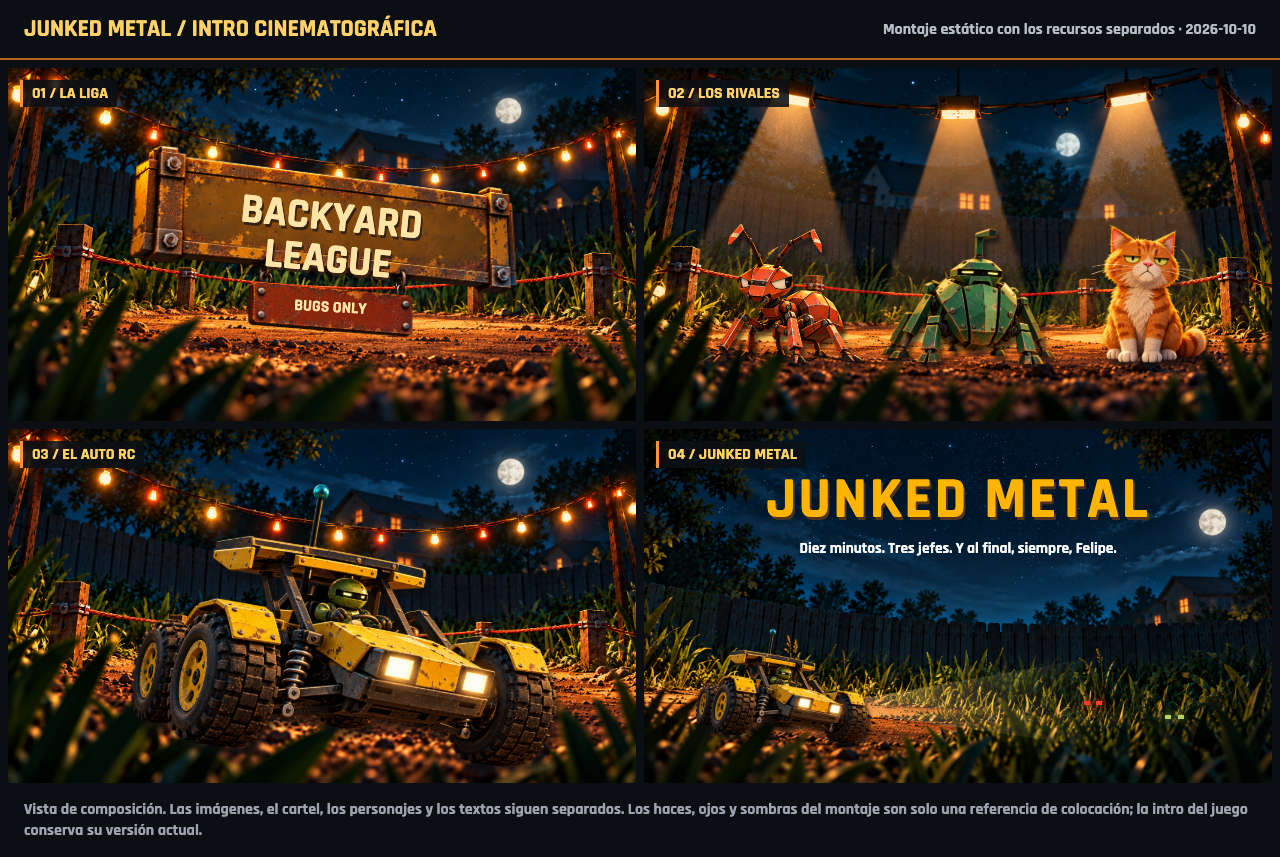
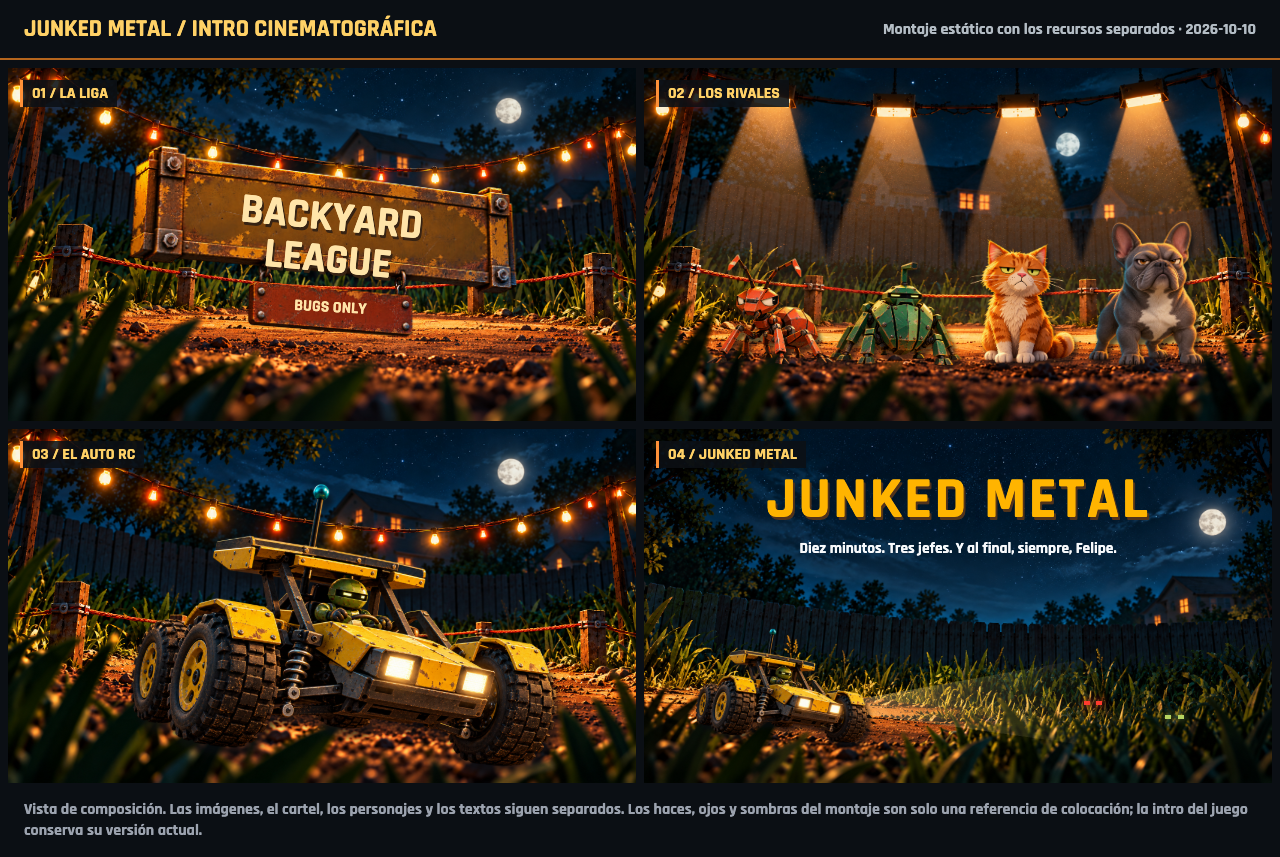
art(intro): incluir frenchie gris junto a Eulalio

Changed region(s): [[0.5312, 0.091, 0.9688, 0.4551]]

diff --git a/assets-src/intro/cinematic-v1/index.html b/assets-src/intro/cinematic-v1/index.html
@@ -5,7 +5,7 @@
 <title>Junked Metal — Recursos cinematográficos de la intro</title>
 <style>
 @font-face{font-family:Rajdhani;src:url('../../../node_modules/@fontsource/rajdhani/files/rajdhani-latin-700-normal.woff2');font-weight:700}
-*{box-sizing:border-box}body{margin:0;background:#0b0f14;color:#ffd166;font-family:Rajdhani,sans-serif}header{padding:14px 24px;display:flex;justify-content:space-between;gap:12px;align-items:center;border-bottom:2px solid #b5651d}h1{margin:0;font-size:24px}header p{margin:0;color:#b4bdc5;font-size:16px}main{display:grid;grid-template-columns:1fr 1fr;gap:8px;padding:8px}.scene{position:relative;aspect-ratio:1672/941;overflow:hidden;background:#0b0f14}.bg{width:100%;height:100%;display:block}.layer{position:absolute;height:auto;pointer-events:none}.label{position:absolute;left:12px;top:12px;padding:3px 9px;border-left:3px solid #ff9138;background:#0b0f14df;color:#ffd166;font-size:16px;z-index:5}.sign{left:18%;top:16%;width:64%}.sign img{width:100%;display:block}.sign strong{position:absolute;left:14%;top:32%;width:76%;text-align:center;transform:rotate(5.5deg);font-size:clamp(14px,3.25vw,56px);line-height:1;color:#ffe4a8;text-shadow:2px 3px #372313}.sign small{position:absolute;left:35%;top:76%;width:34%;text-align:center;transform:rotate(3deg);font-size:clamp(9px,1.25vw,22px);color:#ffe4a8}.rival{bottom:15%;filter:drop-shadow(3px 5px 2px #090c10ad)}.ant{left:8%;width:28%}.beetle{left:37%;width:29%}.cat{left:70%;width:20%}.car{left:19%;bottom:4%;width:69%;filter:drop-shadow(4px 9px 3px #090c10ad)}.small-car{left:8%;bottom:11%;width:28%;filter:drop-shadow(3px 5px 2px #090c10ad)}.title{position:absolute;top:12%;left:8%;right:8%;margin:0;text-align:center;color:#ffb400;font-size:clamp(28px,4.5vw,84px);line-height:1;font-weight:700;letter-spacing:.045em;text-shadow:2px 3px #51331b}.tag{position:absolute;left:10%;right:10%;top:31%;margin:0;text-align:center;color:#f8fafc;font-size:clamp(9px,1.2vw,22px)}.beam{position:absolute;left:27%;top:64%;width:46%;height:26%;clip-path:polygon(0 56%,100% 0,100% 100%);background:linear-gradient(90deg,#ffe7a860,#ffe7a800)}.eyes{position:absolute;width:3%;height:1.1%;background:linear-gradient(90deg,#ff3b2e 0 32%,transparent 32% 68%,#ff3b2e 68%);bottom:22%;left:70%;filter:drop-shadow(0 0 4px #ff3b2e)}.eyes.second{bottom:18%;left:83%;background:linear-gradient(90deg,#b6d360 0 32%,transparent 32% 68%,#b6d360 68%);filter:drop-shadow(0 0 4px #b6d360)}footer{padding:8px 24px 16px;color:#9ca3af;font-size:16px}@media(max-width:700px){main{grid-template-columns:1fr}header{align-items:flex-start;flex-direction:column}h1{font-size:22px}.sign strong{font-size:7vw}.sign small{font-size:3vw}.title{font-size:10vw}.tag{font-size:2.7vw}.label{font-size:12px}}
+*{box-sizing:border-box}body{margin:0;background:#0b0f14;color:#ffd166;font-family:Rajdhani,sans-serif}header{padding:14px 24px;display:flex;justify-content:space-between;gap:12px;align-items:center;border-bottom:2px solid #b5651d}h1{margin:0;font-size:24px}header p{margin:0;color:#b4bdc5;font-size:16px}main{display:grid;grid-template-columns:1fr 1fr;gap:8px;padding:8px}.scene{position:relative;aspect-ratio:1672/941;overflow:hidden;background:#0b0f14}.bg{width:100%;height:100%;display:block}.layer{position:absolute;height:auto;pointer-events:none}.label{position:absolute;left:12px;top:12px;padding:3px 9px;border-left:3px solid #ff9138;background:#0b0f14df;color:#ffd166;font-size:16px;z-index:5}.sign{left:18%;top:16%;width:64%}.sign img{width:100%;display:block}.sign strong{position:absolute;left:14%;top:32%;width:76%;text-align:center;transform:rotate(5.5deg);font-size:clamp(14px,3.25vw,56px);line-height:1;color:#ffe4a8;text-shadow:2px 3px #372313}.sign small{position:absolute;left:35%;top:76%;width:34%;text-align:center;transform:rotate(3deg);font-size:clamp(9px,1.25vw,22px);color:#ffe4a8}.rival{bottom:15%;filter:drop-shadow(3px 5px 2px #090c10ad)}.ant{left:9%;width:22%}.beetle{left:29%;width:22%}.cat{left:51%;width:18%}.frenchie{left:68%;width:24%}.car{left:19%;bottom:4%;width:69%;filter:drop-shadow(4px 9px 3px #090c10ad)}.small-car{left:8%;bottom:11%;width:28%;filter:drop-shadow(3px 5px 2px #090c10ad)}.title{position:absolute;top:12%;left:8%;right:8%;margin:0;text-align:center;color:#ffb400;font-size:clamp(28px,4.5vw,84px);line-height:1;font-weight:700;letter-spacing:.045em;text-shadow:2px 3px #51331b}.tag{position:absolute;left:10%;right:10%;top:31%;margin:0;text-align:center;color:#f8fafc;font-size:clamp(9px,1.2vw,22px)}.beam{position:absolute;left:27%;top:64%;width:46%;height:26%;clip-path:polygon(0 56%,100% 0,100% 100%);background:linear-gradient(90deg,#ffe7a860,#ffe7a800)}.eyes{position:absolute;width:3%;height:1.1%;background:linear-gradient(90deg,#ff3b2e 0 32%,transparent 32% 68%,#ff3b2e 68%);bottom:22%;left:70%;filter:drop-shadow(0 0 4px #ff3b2e)}.eyes.second{bottom:18%;left:83%;background:linear-gradient(90deg,#b6d360 0 32%,transparent 32% 68%,#b6d360 68%);filter:drop-shadow(0 0 4px #b6d360)}footer{padding:8px 24px 16px;color:#9ca3af;font-size:16px}@media(max-width:700px){main{grid-template-columns:1fr}header{align-items:flex-start;flex-direction:column}h1{font-size:22px}.sign strong{font-size:7vw}.sign small{font-size:3vw}.title{font-size:10vw}.tag{font-size:2.7vw}.label{font-size:12px}}
 </style>
 <header><h1>JUNKED METAL / INTRO CINEMATOGRÁFICA</h1><p>Montaje estático con los recursos separados · 2026-10-10</p></header>
 <main>
@@ -15,11 +15,12 @@
 <div class="layer sign"><img src="09-cartel.png" alt="Cartel de metal gastado"><strong>BACKYARD LEAGUE</strong><small>BUGS ONLY</small></div>
 </section>
 <section class="scene" aria-label="Presentación de los rivales">
-<img class="bg" src="02-rivales-fondo.png" alt="Tres focos iluminan el suelo del patio">
+<img class="bg" src="02-rivales-fondo-v2.png" alt="Cuatro focos iluminan el suelo del patio">
 <span class="label">02 / LOS RIVALES</span>
 <img class="layer rival ant" src="05-hormiga.png" alt="Hormiga naranja de metal plegado">
 <img class="layer rival beetle" src="06-escarabajo.png" alt="Escarabajo verde de metal plegado">
 <img class="layer rival cat" src="07-eulalio.png" alt="Eulalio, gato naranja de expresión indiferente">
+<img class="layer rival frenchie" src="10-frenchie-gris.png" alt="Jefe bulldog francés gris, musculoso, con una mancha clara en el pecho">
 </section>
 <section class="scene" aria-label="Entrada del auto RC">
 <img class="bg" src="03-entrada-fondo.png" alt="Suelo del ring preparado para la entrada del auto">

diff --git a/docs/INTRO_ASSETS_PLAN.md b/docs/INTRO_ASSETS_PLAN.md
@@ -1,6 +1,6 @@
 # Junked Metal — Intro y recursos visuales
 
-Fecha: 2026-10-10. Estado: **acabado cinematográfico aprobado; paquete de nueve recursos separados producido y verificado en montaje estático; integración fuera de esta tanda**.
+Fecha: 2026-10-10. Estado: **acabado cinematográfico aprobado; diez recursos activos, incluidos el frenchie y cuatro focos, producidos y verificados en montaje estático; integración fuera de esta tanda**.
 
 ## Alcance acordado
 
@@ -10,6 +10,7 @@ Decisiones del usuario en esta sesión:
 - Conservar la noche y la historia: cartel de la liga, presentación de rivales, entrada del auto RC y cierre.
 - Mostrar una lámina/storyboard antes de reemplazar recursos en el juego.
 - Tras ver la muestra, el usuario eligió conservar su acabado cinematográfico y producir escenas y personajes separados con ese nivel de detalle. La intro puede ser más elaborada que el gameplay; no se pide simplificar esta tanda a píxeles grandes.
+- El usuario pidió incluir un bulldog francés gris como otro jefe junto a Eulalio, con mancha visible de frente en el pecho y físico algo musculoso. Se produjo como recorte independiente y se amplió el montaje a cuatro rivales; el comportamiento y modelo del jefe en runtime no se modifican en esta tanda de recursos.
 
 Responsabilidad: ilustraciones, texturas, modelos y puesta en escena visual. La presente tanda no modifica código, gameplay, balance, física, audio ni interfaz. No publica ni integra la propuesta.
 
@@ -42,12 +43,12 @@ Límites visibles antes de convertirla en recursos finales:
 
 ## Producción propuesta de la intro
 
-**Producción entregada:** [`assets-src/intro/cinematic-v1/README.md`](../assets-src/intro/cinematic-v1/README.md). Cuatro fondos cinematográficos, cuatro personajes con transparencia y un cartel independiente sin texto; prompts exactos, inventario de medidas y comprobaciones incluidos. [Vista del montaje](../assets-src/intro/cinematic-v1/preview.png) y [montaje local editable](../assets-src/intro/cinematic-v1/index.html). Las imágenes se produjeron por separado con `image_gen`, no recortando la lámina. Son capas para composición 2D: personajes en una pose; luces y vegetación horneadas en cada fondo. No se produjeron capas de parallax, geometría 3D ni animación de ruedas.
+**Producción entregada:** [`assets-src/intro/cinematic-v1/README.md`](../assets-src/intro/cinematic-v1/README.md). Cuatro fondos cinematográficos activos, cinco personajes con transparencia y un cartel independiente sin texto; prompts exactos, inventario de medidas y comprobaciones incluidos. Se conserva además el fondo original de tres focos: once PNG fuente, diez activos. [Vista del montaje](../assets-src/intro/cinematic-v1/preview.png) y [montaje local editable](../assets-src/intro/cinematic-v1/index.html). Las imágenes se produjeron por separado con `image_gen`, no recortando la lámina. Son capas para composición 2D: personajes en una pose; luces y vegetación horneadas en cada fondo. No se produjeron capas de parallax, geometría 3D ni animación de ruedas.
 
 | Momento existente | Mejora visual | Recursos a producir | Movimiento propuesto |
 |---|---|---|---|
 | Cartel / 0–5 s | Cámara a ras del pasto; ring de metal con profundidad y luces cálidas | Fondo por planos, cartel sin texto, cuerda, guirnalda y pasto frontal | Desplazamiento lento entre planos; encendido de focos |
-| Rivales / 5–10 s | Siluetas fieles, poses con actitud y lectura bajo tres focos | Hormiga, escarabajo y Eulalio por separado; fondo compartido | Entrada breve, asentamiento y gesto sutil; sin horror ni parpadeo obligatorio |
+| Rivales / 5–10 s | Siluetas fieles, poses con actitud y lectura bajo cuatro focos | Hormiga, escarabajo, Eulalio y frenchie gris por separado; fondo compartido | Entrada breve, asentamiento y gesto sutil; sin horror ni parpadeo obligatorio |
 | Auto / 10–15,2 s | Buggy canónico, ruedas legibles, polvo y frenada con peso | Buggy con transparencia y estados de ruedas; reutilizar fondo y efectos existentes | Entrada y frenada existentes; separar ruedas y carrocería si el arte lo necesita |
 | Cierre / 15,2–19,6 s | Faro revela rivales; espacio claro para logo y subtítulo | Fondo nocturno, pasto frontal, buggy pequeño y ojos | Barrido suave de luz; logo actual superpuesto |
 
@@ -77,3 +78,5 @@ La dirección cinematográfica y la producción de imágenes separadas ya están
 Integración de intro alcanzaría `intro.ts`, su presentación si hiciera falta y un escenario headless de las cuatro escenas; revisar llamadas de `playIntro`, silencio, modo calmo, subtítulos, logo, salida y posibles fallos de carga. Usar recursos relativos para GitHub Pages. Verificación al final de esa tanda: `tsc`, `npm test`, `build`, capturas pc/cel y prueba de reproducción/salto. Medir arranque si se agregan descargas; evaluar rendimiento si se cambia la escena 3D.
 
 Primera tanda: documentación y storyboard conceptual. Segunda tanda: acabado cinematográfico elegido por el usuario, nueve PNG separados y un montaje estático local. Validación: PNG/alpha/bordes, montaje de escritorio y teléfono, diez imágenes cargadas en cada uno sin errores ni desbordamiento; navegador cerrado al terminar. Los PNG fuente suman 17,24 MB y requieren exportación para distribución. No se corrieron suites del juego, simulación ni medición de rendimiento; no hay afirmación de mejora integrada ni de geometría 3D generada. La producción de recursos está autorizada y entregada; integración, reproducción y optimización de descarga siguen pendientes.
+
+Ampliación del frenchie: recorte gris con mancha marfil frontal y físico compacto musculoso; fondo alternativo de cuatro focos. Once PNG fuente (21,36 MB), diez activos (19,17 MB), seis recortes transparentes; prompts y manifest actualizados. Montaje pc/cel con cuatro rivales, once imágenes cargadas sin errores ni desbordamiento y siluetas sin cortes en los límites comprobados. Capturas en `.shots/investigacion-arte/cinematic-frenchie-{pc,cel}.png`. La versión anterior de tres focos se conserva.

diff --git a/assets-src/intro/cinematic-v1/README.md b/assets-src/intro/cinematic-v1/README.md
@@ -2,11 +2,13 @@
 
 2026-10-10 · Acabado elegido por el usuario después de ver el storyboard: **conservar el nivel de detalle cinematográfico, con escenas y personajes separados**. La intro puede tener más elaboración que el gameplay. Producción con la herramienta integrada `image_gen`, sin API/CLI alternativo. No está integrada en el juego.
 
+Ampliación solicitada: **bulldog francés gris, mancha clara visible de frente en el pecho y físico algo musculoso**, presentado como otro jefe junto a Eulalio. Es un animal orgánico de pelo corto, con orejas erguidas y pose frontal; no lleva armadura ni accesorios. El montaje de rivales ahora incluye cuatro personajes bajo cuatro focos.
+
 ## Ver el resultado
 
 - [`index.html`](index.html): montaje estático local de las cuatro escenas; abrir desde esta carpeta dentro del repositorio. Reutiliza la fuente Rajdhani instalada en `node_modules/@fontsource/rajdhani`, sin red ni servidor nuevo.
 - [`preview.png`](preview.png): captura del montaje de escritorio. No es una imagen única para reemplazar los recursos separados.
-- [`prompts.json`](prompts.json): los nueve prompts exactos, transparencia solicitada y referencia aprobada.
+- [`prompts.json`](prompts.json): los once prompts exactos, transparencia solicitada y referencias utilizadas.
 - [`assets.json`](assets.json): tamaños, peso y límites de contenido de cada PNG. Los límites se midieron sobre alpha > 16/255, no deben interpretarse como recorte exacto del pelo o de halos suaves.
 - [`verification.json`](verification.json): comprobaciones efectuadas en esta tanda.
 
@@ -15,16 +17,18 @@
 | Archivo | Contenido | Transparencia | Uso previsto |
 |---|---|---|---|
 | `01-ring-fondo.png` | Patio, ring y guirnalda, sin cartel ni personajes | No | Momento 1, base del cartel |
-| `02-rivales-fondo.png` | Patio con tres focos y suelo despejado | No | Momento 2, colocar rivales a 24/50/76 % del ancho |
+| `02-rivales-fondo.png` | Patio con tres focos y suelo despejado | No | Versión anterior conservada; no se usa en el montaje actual |
+| `02-rivales-fondo-v2.png` | Mismo patio con cuatro focos | No | Momento 2, cuatro rivales a 20/40/60/80 % del ancho |
 | `03-entrada-fondo.png` | Patio y suelo libre, sin buggy ni polvo | No | Momento 3, entrada y frenada del auto |
 | `04-cierre-fondo.png` | Cerca, pasto y cielo libre para el título | No | Momento 4, auto pequeño, faro y ojos |
 | `05-hormiga.png` | Hormiga naranja, cuerpo y seis patas completos | Sí | Rival izquierdo; imagen independiente |
 | `06-escarabajo.png` | Escarabajo verde con antena angular | Sí | Rival central; imagen independiente |
-| `07-eulalio.png` | Gato naranja orgánico, patas, bigotes y cola | Sí | Rival derecho; imagen independiente |
+| `07-eulalio.png` | Gato naranja orgánico, patas, bigotes y cola | Sí | Tercer rival, junto al frenchie; imagen independiente |
 | `08-buggy.png` | Buggy amarillo, piloto y faros; acentos de metal/cian | Sí | Entrada y cierre, reutilizado a distinta escala |
 | `09-cartel.png` | Cartel metálico doble sin letras | Sí | Momento 1, textos superpuestos por separado |
+| `10-frenchie-gris.png` | Jefe bulldog francés gris, pecho con mancha marfil y musculatura moderada | Sí | Cuarto rival junto a Eulalio, pose frontal |
 
-Los cuatro fondos miden **1672×941** (relación casi 16:9); los recortes conservan sus proporciones nativas. Total de los nueve PNG: **17.237.341 bytes**, unos 17,24 MB. Son originales editables en composición, no archivos optimizados para descargar en el arranque del juego.
+Los cinco fondos fuente (cuatro en uso y la versión anterior de rivales) miden **1672×941** (relación casi 16:9); los seis recortes conservan sus proporciones nativas. El frenchie mide **1263×1246** y tiene transparencia real. Total de los once PNG: **21.364.157 bytes**, unos 21,36 MB; los diez recursos usados por el montaje suman **19.171.701 bytes**, unos 19,17 MB. Son originales editables en composición, no archivos optimizados para descargar en el arranque del juego. `assets.json` marca qué archivos están activos.
 
 ## Montaje y continuidad
 
@@ -43,6 +47,6 @@ El buggy conserva la silueta de la lámina aprobada. Sus resortes son metálicos
 
 ## Verificación realizada
 
-Nueve PNG decodificados; cuatro fondos opacos; cinco recortes con transparencia real y sin píxeles de alpha > 16 en el borde del lienzo. Montaje inspeccionado en Chromium headless local con la GPU Metal: escritorio 1280×720 y teléfono 390×844, diez imágenes cargadas en cada uno, sin errores de página/carga ni desbordamiento horizontal. Capturas de evidencia en `.shots/investigacion-arte/cinematic-v1-{pc,cel}.png`. Navegador cerrado al terminar.
+Once PNG decodificados; cinco fondos opacos; seis recortes con transparencia real y sin píxeles de alpha > 16 en el borde del lienzo. Correspondencia exacta entre los once archivos y sus prompts. Montaje inspeccionado en Chromium headless local con la GPU Metal: escritorio 1280×720 y teléfono 390×844, once imágenes cargadas en cada uno (el buggy se usa dos veces), cuatro rivales y un único frenchie, sin errores de página/carga ni desbordamiento horizontal. Capturas de evidencia actuales en `.shots/investigacion-arte/cinematic-frenchie-{pc,cel}.png`; las capturas iniciales de tres rivales se conservan. Navegador cerrado al terminar.
 
 La revisión cubre **el paquete y su montaje estático**. La intro real conserva `src/intro.ts`; no se probaron su reproducción con estos recursos, controles de salto ni rendimiento de carga. No se corrieron suites del juego porque no cambió su código. Antes de integrar: exportar imágenes de distribución con peso adecuado, decidir animación y manejo de carga, y verificar intro/salto/modo calmo/subtítulos en escritorio y teléfono según [`INTRO_ASSETS_PLAN.md`](../../../docs/INTRO_ASSETS_PLAN.md).

diff --git a/docs/HANDOFF-PROYECTOS.md b/docs/HANDOFF-PROYECTOS.md
@@ -80,6 +80,8 @@ Documentación viva: `CLAUDE.md` (reglas, pruebas, balance, herramientas) y `doc
 
 **Arte e intro — producción del 2026-10-10:** tras ver la lámina, el usuario eligió **conservar el acabado cinematográfico**, con más detalle que el gameplay. Paquete [`assets-src/intro/cinematic-v1/README.md`](../assets-src/intro/cinematic-v1/README.md): cuatro fondos, hormiga/escarabajo/Eulalio/buggy y cartel vacío con transparencia; prompts exactos, medidas, montaje HTML estático y captura. PNG/alpha/bordes y montaje pc/cel verificados; 17,24 MB fuente. Una pose por personaje y fondos sin separación por profundidad: no hay video, modelos 3D nuevos ni rig. **Pendiente:** integrar y animar la intro, exportar archivos de distribución y medir su carga. Esta sesión solo produjo recursos; `src/intro.ts` conserva la versión anterior.
 
+**Ampliación de jefes en el arte, 2026-10-10:** usuario pidió frenchie/bulldog francés gris, mancha visible en el pecho y algo musculoso, junto a Eulalio. Entregado `10-frenchie-gris.png` con alpha + `02-rivales-fondo-v2.png` con cuatro focos. Montaje de cuatro rivales y captura actualizados; revisión pc/cel sin errores ni desbordamiento. Once fuentes conservadas, diez activas; 19,17 MB activos. Se conserva el fondo anterior. No cambia el jefe perro ni su lógica en el juego: incorporación al paquete y montaje visual, con integración runtime pendiente.
+
 **Pendiente de implementar (ya decidido por el usuario):**
 - **Planilla en Drive:** subir `balance.xlsx` y dejarla como referencia.
 
